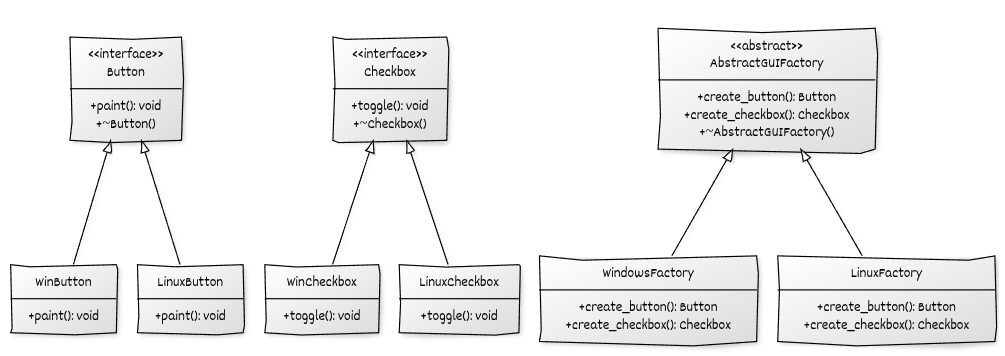
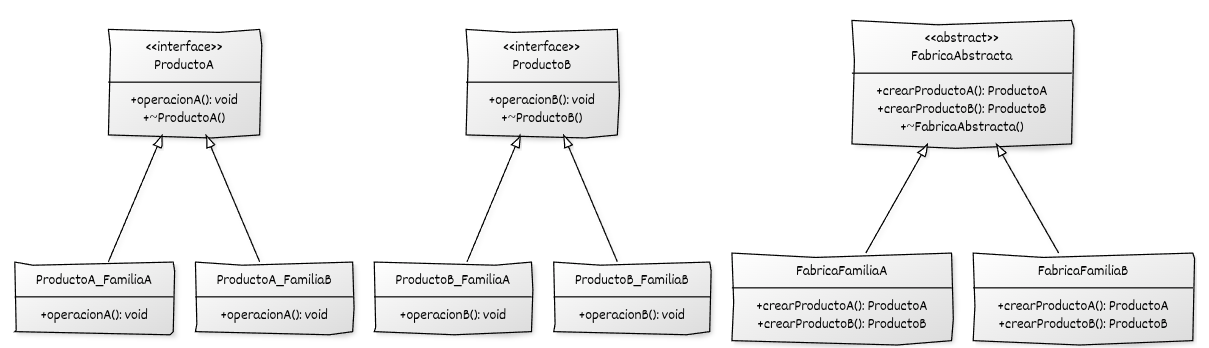
Modulo02

diff --git a/contenido/modulo02/abstract_factory2.md b/contenido/modulo02/abstract_factory2.md
@@ -67,63 +67,64 @@ Nunca referencia productos concretos.
 
 ## Ejemplo genérico
 
+
 ```cpp
 #include <iostream>
 #include <memory>
 
 // ======================================================
-//    Interfaces de la familia de productos
+//    Interfaces abstractas de los productos
 // ======================================================
 
-// Producto 1: Button
-class Button {
+// Producto 1
+class ProductoA {
 public:
-    virtual ~Button() = default;
-    virtual void paint() const = 0;
+    virtual ~ProductoA() = default;
+    virtual void operacionA() const = 0;
 };
 
-// Producto 2: Checkbox
-class Checkbox {
+// Producto 2
+class ProductoB {
 public:
-    virtual ~Checkbox() = default;
-    virtual void toggle() const = 0;
+    virtual ~ProductoB() = default;
+    virtual void operacionB() const = 0;
 };
 
 
 // ======================================================
-//    Productos concretos de la familia Windows
+//    Productos concretos de la Familia A
 // ======================================================
 
-class WinButton : public Button {
+class ProductoA_FamiliaA : public ProductoA {
 public:
-    void paint() const override {
-        std::cout << "[Windows] Pintando botón.\n";
+    void operacionA() const override {
+        std::cout << "Ejecutando operación A en ProductoA_FamiliaA\n";
     }
 };
 
-class WinCheckbox : public Checkbox {
+class ProductoB_FamiliaA : public ProductoB {
 public:
-    void toggle() const override {
-        std::cout << "[Windows] Alternando checkbox.\n";
+    void operacionB() const override {
+        std::cout << "Ejecutando operación B en ProductoB_FamiliaA\n";
     }
 };
 
 
 // ======================================================
-//    Productos concretos de la familia Linux
+//    Productos concretos de la Familia B
 // ======================================================
 
-class LinuxButton : public Button {
+class ProductoA_FamiliaB : public ProductoA {
 public:
-    void paint() const override {
-        std::cout << "[Linux] Pintando botón.\n";
+    void operacionA() const override {
+        std::cout << "Ejecutando operación A en ProductoA_FamiliaB\n";
     }
 };
 
-class LinuxCheckbox : public Checkbox {
+class ProductoB_FamiliaB : public ProductoB {
 public:
-    void toggle() const override {
-        std::cout << "[Linux] Alternando checkbox.\n";
+    void operacionB() const override {
+        std::cout << "Ejecutando operación B en ProductoB_FamiliaB\n";
     }
 };
 
@@ -132,12 +133,12 @@ public:
 //    Fábrica abstracta
 // ======================================================
 
-class AbstractGUIFactory {
+class FabricaAbstracta {
 public:
-    virtual ~AbstractGUIFactory() = default;
+    virtual ~FabricaAbstracta() = default;
 
-    virtual std::unique_ptr<Button> create_button() const = 0;
-    virtual std::unique_ptr<Checkbox> create_checkbox() const = 0;
+    virtual std::unique_ptr<ProductoA> crearProductoA() const = 0;
+    virtual std::unique_ptr<ProductoB> crearProductoB() const = 0;
 };
 
 
@@ -145,25 +146,25 @@ public:
 //    Fábricas concretas
 // ======================================================
 
-class WindowsFactory : public AbstractGUIFactory {
+class FabricaFamiliaA : public FabricaAbstracta {
 public:
-    std::unique_ptr<Button> create_button() const override {
-        return std::make_unique<WinButton>();
+    std::unique_ptr<ProductoA> crearProductoA() const override {
+        return std::make_unique<ProductoA_FamiliaA>();
     }
 
-    std::unique_ptr<Checkbox> create_checkbox() const override {
-        return std::make_unique<WinCheckbox>();
+    std::unique_ptr<ProductoB> crearProductoB() const override {
+        return std::make_unique<ProductoB_FamiliaA>();
     }
 };
 
-class LinuxFactory : public AbstractGUIFactory {
+class FabricaFamiliaB : public FabricaAbstracta {
 public:
-    std::unique_ptr<Button> create_button() const override {
-        return std::make_unique<LinuxButton>();
+    std::unique_ptr<ProductoA> crearProductoA() const override {
+        return std::make_unique<ProductoA_FamiliaB>();
     }
 
-    std::unique_ptr<Checkbox> create_checkbox() const override {
-        return std::make_unique<LinuxCheckbox>();
+    std::unique_ptr<ProductoB> crearProductoB() const override {
+        return std::make_unique<ProductoB_FamiliaB>();
     }
 };
 
@@ -172,31 +173,32 @@ public:
 //    Código cliente
 // ======================================================
 
-void cliente(const AbstractGUIFactory& factory) {
-    auto button   = factory.create_button();
-    auto checkbox = factory.create_checkbox();
+void cliente(const FabricaAbstracta& fabrica) {
+    auto a = fabrica.crearProductoA();
+    auto b = fabrica.crearProductoB();
 
-    button->paint();
-    checkbox->toggle();
+    a->operacionA();
+    b->operacionB();
 }
 
 int main() {
-    WindowsFactory winFactory;
-    LinuxFactory   linuxFactory;
+    FabricaFamiliaA fabricaA;
+    FabricaFamiliaB fabricaB;
 
-    cliente(winFactory);
-    cliente(linuxFactory);
+    cliente(fabricaA);
+    cliente(fabricaB);
 }
 ```
 
-## Puntos clave del ejemplo
+## Puntos clave del ejemplo genérico
 
-* La **fábrica abstracta** declara métodos para crear todos los productos de la **familia**.
-* Cada fábrica concreta produce **variantes coherentes**:
-  *WindowsFactory → productos Windows*,
-  *LinuxFactory → productos Linux*.
-* El cliente trabaja únicamente con **interfaces (`Button`, `Checkbox`)** y **no conoce las clases concretas**.
-* `std::unique_ptr` garantiza seguridad, propiedad clara y ausencia de fugas.
-* Añadir una nueva familia (por ejemplo, *macOS*) solo requiere implementar una nueva fábrica y sus productos, sin modificar el cliente.
-* El patrón evita mezclar productos incompatibles entre sí.
+* La **fábrica abstracta** define los métodos para crear todos los productos de una familia (crearProductoA, crearProductoB)
+* Cada **fábrica concreta** produce versiones coherentes de toda su familia:
+
+  * `FabricaFamiliaA` → productos *ProductoA_FamiliaA*, *ProductoB_FamiliaA*
+  * `FabricaFamiliaB` → productos *ProductoA_FamiliaB*, *ProductoB_FamiliaB*
+* El cliente trabaja solo con **interfaces abstractas** (`ProductoA`, `ProductoB`, `FabricaAbstracta`)
+* `std::unique_ptr` garantiza seguridad, propiedad clara y ausencia de fugas
+* Añadir una **nueva familia** solo requiere escribir otra fábrica concreta y sus productos
+* Evita mezclar productos incompatibles (por ejemplo, ProductoA de FamiliaA con ProductoB de FamiliaB)
 

diff --git a/contenido/modulo02/abstract_factory.md b/contenido/modulo02/abstract_factory.md
@@ -14,7 +14,7 @@ El objetivo del patrón es que el código cliente pueda trabajar con **familias 
 ## Problemas que intenta solucionar
 
 El patrón Abstract Factory resulta útil cuando:
-
+A
 * Se necesitan crear **conjuntos completos de objetos relacionados** (familias) que deben ser coherentes entre sí.
 * Se quiere **evitar mezclar productos de distintas familias**, por ejemplo un botón “tema oscuro” con una ventana “tema claro”.
 * El código cliente **no debería depender de clases concretas**, sino solo de interfaces o tipos abstractos.
@@ -32,6 +32,23 @@ Abstract Factory aporta las siguientes ideas:
 * El código cliente **solo conoce la fábrica abstracta y las interfaces de los productos**, no las clases concretas.
 * Cambiar de familia (por ejemplo, “Windows” a “Linux”, o “tema claro” a “tema oscuro”) se reduce a **cambiar la fábrica concreta** que se instancia.
 * La incorporación de una nueva familia se hace creando una **nueva fábrica concreta** y los productos correspondientes, sin modificar el código cliente, respetando el principio de *Open/Closed*.
+
+## Relación con los principios SOLID
+
+* **Open/Closed Principle (OCP)**:
+  *Abstract Factory* facilita la extensión de familias completas de productos sin modificar el código cliente ni las fábricas ya existentes. Para introducir una nueva familia, basta con definir una nueva implementación concreta de la fábrica y sus productos asociados. La estructura del patrón permite que el sistema evolucione por **extensión** y no por **modificación**, ejemplificando de forma muy directa el OCP.
+
+* **Dependency Inversion Principle (DIP)**:
+  El cliente trabaja exclusivamente con **interfaces abstractas** tanto de fábrica como de productos. Nunca depende de clases concretas.
+  La lógica de selección de la familia de productos se invierte: el cliente no decide qué tipos concretos instanciar, sino que recibe o construye una fábrica que cumple una interfaz abstracta.
+  Este desacoplamiento profundo entre cliente y productos concretos convierte a *Abstract Factory* en uno de los patrones que más claramente refuerzan el DIP.
+
+* **Single Responsibility Principle (SRP)**:
+  El patrón distribuye las responsabilidades de forma nítida:
+
+  * La fábrica concreta se responsabiliza de **crear objetos compatibles** pertenecientes a la misma familia.
+  * El cliente se limita a **usar** los productos abstractos sin conocer su implementación.
+    Esta separación de responsabilidades reduce el acoplamiento y garantiza que los cambios en la creación de objetos no afecten al código que los utiliza, lo cual es coherente con el SRP.
 
 ## Ejemplos concretos
 
